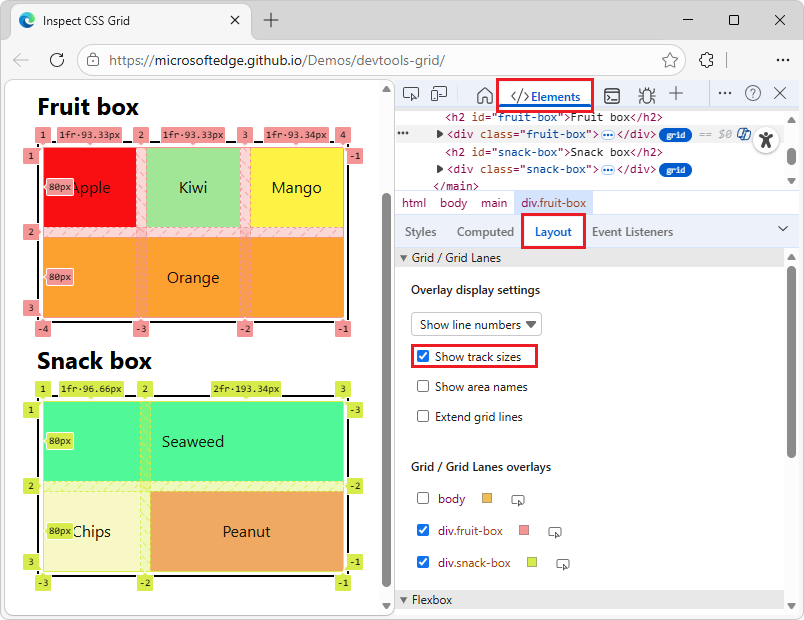
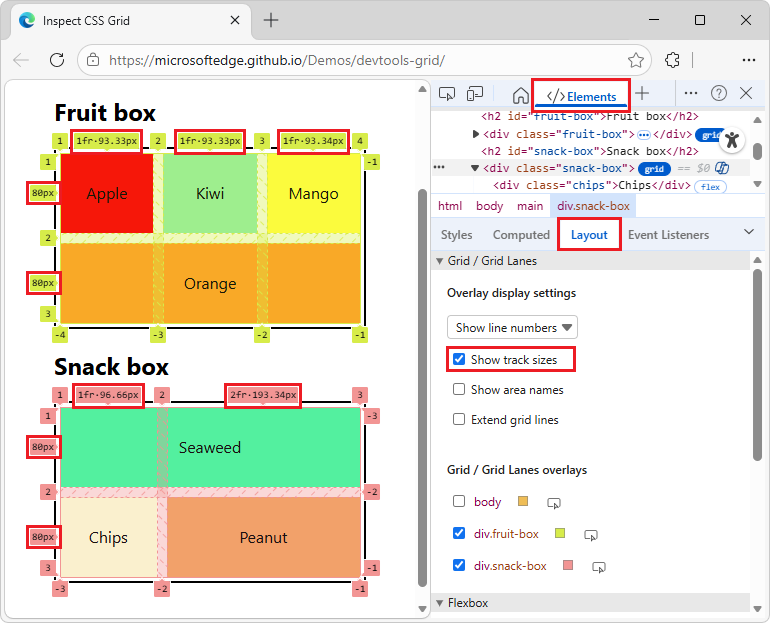
redid track size

diff --git a/microsoft-edge/devtools/css/grid.md b/microsoft-edge/devtools/css/grid.md
@@ -271,10 +271,12 @@ The following track-size line labels are displayed on the grid columns, for the 
 
 | Track size | Authored size | Computed size |
 |:--- |:--- |:--- |
-| **1fr** &#x2022; **48.33px** | 1fr | 48.33px |
-| **2fr** &#x2022; **96.67px** | 2fr | 96.67px |
+| **1fr** &#x2022; **96.66px** | 1fr | 96.66px |
+| **2fr** &#x2022; **193.34px** | 2fr | 193.34px |
 
-The line labels on the grid columns display the `authored size` in addition to the `computed size`, because column sizes have been authored (specified), in the CSS property `grid-template-columns` in the CSS stylesheet.
+If your machine's display is set to a different pixel density, the demo might produce different values, such as half as many pixels.
+
+The line label on each grid column displays the `authored size` in addition to the `computed size`, because column sizes have been authored (specified), in the CSS property `grid-template-columns` in the CSS stylesheet.
 
 **Row labels:**
 
@@ -285,7 +287,9 @@ The following track-size line labels are displayed on the grid rows, for the dem
 | **80px** | n/a | 80px |
 | **80px** | n/a | 80px |
 
-The line labels on the grid rows do not display the `authored size`, only the `computed size`, because row sizes have not been authored (specified) in the CSS property `grid-template-rows` in the CSS stylesheet.
+If your machine's display is set to a different pixel density, the demo might produce different values, such as half as many pixels.
+
+The line label on each grid row doesn't display an `authored size`, only the `computed size`, because row sizes have not been authored (specified) in the CSS property `grid-template-rows` in the CSS stylesheet.
 
 See also:
 * [grid-template-columns](https://developer.mozilla.org/docs/Web/CSS/Reference/Properties/grid-template-columns) at MDN.
